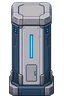
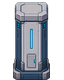
Define battlefield art overflow standards

diff --git a/时间循环玩法/项目记忆_新对话接续.md b/时间循环玩法/项目记忆_新对话接续.md
@@ -86,10 +86,12 @@
 - 新增 D-025 单位碰撞：击退落点被另一单位占据时不移动，碰撞双方各受 1 点伤害；分身重演时按当前棋盘重新判断碰撞对象，不递归连锁，也不触发扰动。
 - 碰撞使用独立 `units_collided` 事件与橙色闪电落点预览；核心规则测试增至 180 项（含双方同时致死与胜利边界），界面、竖屏布局、触控和碰撞预览测试增至 58 项通过。
 - M4.2 已启动：64×64 明亮实验室地砖已经接入并获用户认可，替换了棋盘的深色灰盒地面。
-- 首版单格低墙候选被用户否决；实验室不可通行格改为参考图 11/12 的实体设备表达，现已接入 64×96 服务器机柜与实验室立柱，并按格子坐标稳定交错显示。
-- 设备底部只占一个逻辑格，向上延伸约半格并按行从后向前绘制；`BattleBoardView` 使用最近邻过滤，点击判定、规则内核和战术叠加层均未改变。
-- 已抓取 360×800、390×844、430×932 三种真实 OpenGL 画面，完整棋盘、HUD 和底部按钮均未裁切；180 项核心测试和 58 项界面测试通过。
-- M4.2A 尚未正式验收：普通地砖已通过，服务器与立柱第二版候选等待用户评审；通过前不批量生产本体、分身、守卫和其他正式素材。
+- 首版单格低墙候选被用户否决；实验室不可通行格改为参考图 11/12 的实体设备表达，现已接入服务器机柜与实验室立柱，并按格子坐标稳定交错显示。
+- 用户认可设备方向但指出 1.5 格高度会遮挡上方地块；现已确认 D-026 战场美术越界规范，并将棋盘内障碍导出为 64×80 战术压缩版，运行时高度约 1.22 格。
+- 设备底部只占一个逻辑格并按行从后向前绘制；`BattleBoardView` 使用最近邻过滤，点击判定、规则内核和战术叠加层均未改变。
+- D-026 落地后已重新检查 360×800、390×844、430×932 三种真实 OpenGL 画面，上方地块可读面积增加且设备轮廓保留；180 项核心测试和 58 项界面测试通过。
+- 三种验证尺寸下完整棋盘、HUD 和底部按钮均未裁切。
+- M4.2A 尚未正式验收：普通地砖已通过，1.22 格高服务器与立柱候选等待最终实机评审；通过前不批量生产本体、分身、守卫和其他正式素材。
 - H5 六关版本继续冻结为玩法参考和结果对照，不再扩展第二套正式内核。
 - 已知但未完成的工程项：第一批正式素材与动画状态机、键盘/手柄输入、PC 宽屏适配、完整行动记录的独立保存/重新加载入口、50 回合硬上限、重开当前时间线、通关合并回放，以及正式音效。
 
@@ -121,10 +123,11 @@
 - 扰动清醒需要每种敌人独立的”脱离时间控制”变体原画
 - 监视玩法大概率砍掉
 - 坍缩值不在战斗 HUD 显示
+- D-026：战术信息优先于空间纵深；单格障碍向上越界不超过 20—25% 格高，完整高度美术用于棋盘外围或与真实多格占位一致的实体
 
 ### 下一步
 
-1. **M4.2A 用户评审**：普通地砖已通过；接下来只评审 390×844 实战中的服务器、立柱轮廓与单格阻挡可读性。
+1. **M4.2A 用户评审**：普通地砖已通过；接下来评审压缩到约 1.22 格高后的服务器、立柱是否同时保留设备轮廓与上方格可读性。
 2. **M4.2B 第一批正式素材**：基准通过后再扩展本体、分身、守卫、时间空洞和 UI 九宫格，保持明亮实验室及既定青/紫/红橙信息配色。
 3. **M4.2C 战斗动画**：建立移动、攻击、受击、死亡、固化动画状态机，并为 `units_collided` 增加双方震动、碰撞闪光和双 `-1` 伤害数字；动画继续只消费 `BattleEvent`，不修改规则内核。
 4. **交付基线**：六关保持可玩，360×800、390×844、430×932 不裁切，180 项核心测试与 58 项界面测试不得回退。
@@ -448,9 +451,9 @@ Boss 例外：
 
 ## 下一次对话建议起点
 
-M4.2A 普通地砖已通过，服务器与实验室立柱第二版候选已经接入，下一步完成障碍物评审：
+M4.2A 普通地砖已通过，服务器与实验室立柱已按 D-026 压缩到约 1.22 格高，下一步完成最终障碍物评审：
 
-1. 评审 390×844 候选画面中的服务器、立柱轮廓与单格阻挡可读性；未通过则只迭代障碍设备。
+1. 评审 390×844 候选画面中的设备轮廓、所属格与上方地块可读性；未通过则只迭代障碍设备。
 2. 基准通过后制作本体、分身、守卫、时间空洞和 UI 九宫格资源。
 3. 建立移动、攻击、受击、死亡、固化动画状态机，继续只由 `BattleEvent` 驱动。
 4. 为 `units_collided` 事件制作双方震动、碰撞闪光和双伤害数字反馈。

diff --git a/时间循环玩法/项目TODO与设计决策.md b/时间循环玩法/项目TODO与设计决策.md
@@ -7,8 +7,8 @@
 ## 当前阶段
 
 - 目标：进入正式版预制作；核心规则继续沿用已验收的 Godot 纵向切片，正式战斗界面改以竖版手机为第一视觉目标。
-- 当前工作：M4.2 已启动；M4.2A 正式地砖与墙体候选已经接入，180 项核心测试、58 项界面测试和三种手机比例真实渲染均通过。
-- 当前议题：普通地砖已获用户认可；由用户评审参考图 11/12 制作的服务器与实验室立柱第二版障碍候选，评审通过前不批量接入角色、UI 组件与动画状态机。
+- 当前工作：M4.2 已启动；普通地砖已通过，服务器与立柱已按 D-026 从 1.5 格高收缩为约 1.22 格高，等待最终实机评审。
+- 当前议题：验证战术压缩后的障碍物是否同时保留设备辨识度和上方格可读性；通过前不批量接入角色、UI 组件与动画状态机。
 
 ## 设计决策记录
 
@@ -552,6 +552,22 @@
   - 分身只记录固定击退方向；重演时根据当前棋盘重新判断实际碰撞对象，保持“录像固定、作用对象由当前世界决定”的总原则。
   - 单位碰撞只造成伤害且不改变位置，因此默认不触发固定敌人的扰动清醒。
 
+### D-026 战场美术越界与信息优先级
+
+- 状态：`[已决定并执行]`
+- 决定日期：2026-08-05
+- 结论：
+  - 战场显示优先级固定为：操作目标与结果预览 → 单位及战斗信息 → 地形功能与占位 → 场景美术与空间纵深 → 纯装饰。
+  - 低优先级元素不能长期遮挡高优先级信息；逻辑上只占一格的实体，静态画面中不能看起来占据两格。
+  - 普通地砖与时间空洞不越界；棋盘内单格障碍向上最多越界 20—25% 格高；普通单位向上最多约 30%；短暂攻击/受击动画可以扩大，但默认不超过 0.5 秒且不改变点击热区。
+  - 大型设备和 Boss 的视觉多格占位必须与规则层真实占位一致；完整高度环境素材优先用于棋盘边缘、背景和非交互演出，战场内部使用战术压缩版。
+  - 动态透明只作为尺寸压缩后的安全网：越界部分遮挡相邻格的单位、目标、危险预告、分身路径、火线或击退落点时，可临时降至 35—45% 不透明度。
+  - 每项新素材必须通过所属格、视觉占位、复杂帧遮挡和压缩后身份四项检查；前三项任一失败，不得以增强立体感为由进入正式战场。
+  - 详细数值、动态避让条件和检查表统一维护在《战斗 HUD 规格》§4.4。
+- 设计目的：
+  - 保留明亮实验室和近俯视空间层次，同时保护竖屏 8×8 确定性战棋最重要的格子判断与结果预览。
+  - 让后续角色、Boss、障碍、特效和场景装饰共享同一套可验收标准，减少逐素材反复争论。
+
 ## TODO
 
 ### P0：核心战斗规则
@@ -792,5 +808,9 @@
 - 新素材已接入 360×800、390×844、430×932 三种实际画面且无裁切；规则内核、触控判定和战术叠加层不变，180 项核心测试与 58 项界面测试通过。
 - 首轮状态为 M4.2A 地砖与低墙候选待用户评审；未确认前不进入 M4.2B。
 - 用户确认普通格子没有问题，但不接受低矮墙块作为实验室不可通行格；阻挡物改为参考图 11/12 的立柱、服务器等实验室设备。
-- 新增服务器机柜和实验室立柱两种 64×96 障碍素材，底部保持单格逻辑占位、视觉向上延伸约半格；连续阻挡区按坐标稳定交错两种设备，不修改关卡资源。
+- 首版新增服务器机柜和实验室立柱两种 64×96 障碍素材，底部保持单格逻辑占位、视觉向上延伸约半格；连续阻挡区按坐标稳定交错两种设备，不修改关卡资源。
 - 删除被否决的低墙运行时与源素材；第二版仍通过 180 项核心测试、58 项界面测试和三种手机比例真实渲染，当前等待用户确认障碍轮廓与阻挡可读性。
+- 用户认可服务器与立柱的美术方向，但指出 1.5 格高会遮挡上方地块；双方确认建立覆盖后续所有战场素材的美术越界规范。
+- 新增 D-026 与《战斗 HUD 规格》§4.4：确定信息优先级、单格障碍 20—25% 越界上限、普通单位约 30% 上限、动态透明安全网和四项素材接入检查。
+- 当前服务器与立柱已重新导出为 64×80 战术压缩版，并在表现层按约 1.22 格高绘制；完整透明源图继续保留，供棋盘外围和非交互演出使用。
+- D-026 落地后重新通过 180 项核心测试、58 项界面测试及 360×800、390×844、430×932 三种真实 OpenGL 画面检查；上方地块可读面积增加，设备轮廓和单格底座仍可辨认。

diff --git a/source_assets/environment/m42a/README.md b/source_assets/environment/m42a/README.md
@@ -1,20 +1,21 @@
 # M4.2A 实验室环境基准
 
-> 状态：2026-08-05 普通地砖已获用户认可；低墙候选被否决，已按参考图 11/12 改为服务器与实验室立柱，等待第二轮实战确认。
+> 状态：2026-08-05 普通地砖已获用户认可；服务器与实验室立柱按 D-026 压缩为约 1.22 格高，等待最终实战确认。
 
 ## 运行时导出
 
 - `lab_floor_tile_alpha.png`：地砖透明源图；裁切透明边界后缩放为 `game/assets/environment/lab_floor_tile.png`（64×64）。
-- `lab_server_alpha.png`：服务器透明源图；裁切透明边界后缩放、底部对齐至 `game/assets/environment/lab_obstacle_server.png`（64×96 画布）。
-- `lab_pillar_alpha.png`：立柱透明源图；裁切透明边界后缩放、底部对齐至 `game/assets/environment/lab_obstacle_pillar.png`（64×96 画布）。
+- `lab_server_alpha.png`：服务器完整透明源图；战术压缩后底部对齐至 `game/assets/environment/lab_obstacle_server.png`（64×80 画布）。
+- `lab_pillar_alpha.png`：立柱完整透明源图；战术压缩后底部对齐至 `game/assets/environment/lab_obstacle_pillar.png`（64×80 画布）。
 - 运行时由 `BattleBoardView` 使用最近邻过滤绘制，点击判定、格子坐标和战术叠加层不依赖贴图尺寸。
 
 ## 当前候选规格
 
 - 镜头：近俯视微倾斜，约 10—15° 偏离正上方；格子保持正方形，不使用 45° 菱形等距视角。
 - 地砖：浅冷灰实验室面板，低对比磨损，细钢蓝接缝，青色指示像素仅作微弱点缀。
-- 不可通行格：不使用抽象低墙；由服务器机柜、实验室立柱等实体设备承担阻挡语义。设备底部只占一个逻辑格，精灵向上延伸约半格，并按行从后向前绘制。
+- 不可通行格：不使用抽象低墙；由服务器机柜、实验室立柱等实体设备承担阻挡语义。设备底部只占一个逻辑格，运行时高度约为 1.22 格，并按行从后向前绘制。
 - 设备变体：当前按格子坐标稳定交错服务器与立柱，只改变表现，不增加第二套关卡碰撞数据。
+- 完整透明源图保留设备原始比例，棋盘内部使用 64×80 战术压缩版；未来棋盘外围和非交互演出可重新导出完整高度版本。
 - 信息层级：环境保持低饱和、低噪声，红橙敌人、紫色分身与青色移动范围必须优先可读。
 
 ## ImageGen 提示词

diff --git a/时间循环玩法/设计框架v2_时间循环.md b/时间循环玩法/设计框架v2_时间循环.md
@@ -22,6 +22,7 @@
 - 前期采用明亮、整洁、秩序感强的实验室环境
 - 镜头采用固定近俯视微倾斜视角（约 10—15° 偏离正上方），格子接近正方形，墙体和设备露出少量可读侧面
 - 实验室区域的不可通行格优先由立柱、服务器机柜等实体设备表达，不使用连续抽象低墙；逻辑上仍沿用单格阻挡数据
+- 战场采用“战术压缩版”美术：规则信息优先于空间纵深；单格静态障碍向上越界不超过 20—25% 格高，完整高度素材只用于棋盘外围或与真实多格占位一致的实体
 - 镜头不可旋转，优先正交或弱透视，不能因远近缩放破坏格子判断
 - 青色代表当前本体，紫色代表分身与历史，红橙代表敌人与即时威胁，橙色代表已知意图
 

diff --git a/game/assets/README.md b/game/assets/README.md
@@ -5,6 +5,6 @@ Only Godot runtime-ready art, UI, audio, and font exports belong here. Editable 
 ## Environment
 
 - `environment/lab_floor_tile.png`：M4.2A 明亮实验室单格地砖，64×64。
-- `environment/lab_obstacle_server.png`：M4.2A 单格服务器机柜，64×96 画布、底部锚定。
-- `environment/lab_obstacle_pillar.png`：M4.2A 单格实验室立柱，64×96 画布、底部锚定。
+- `environment/lab_obstacle_server.png`：M4.2A 单格服务器机柜，64×80 战术压缩版画布、底部锚定。
+- `environment/lab_obstacle_pillar.png`：M4.2A 单格实验室立柱，64×80 战术压缩版画布、底部锚定。
 - 对应透明源图、候选规格和 ImageGen 提示词位于 `source_assets/environment/m42a/`。
